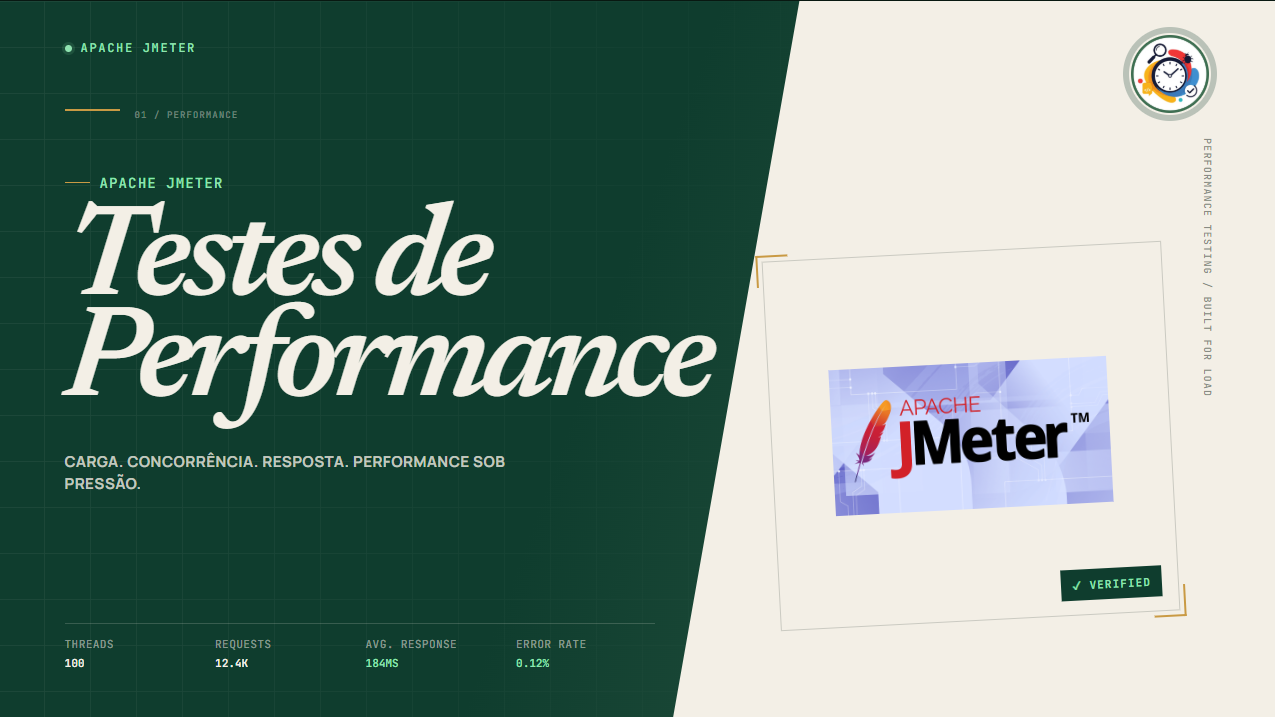
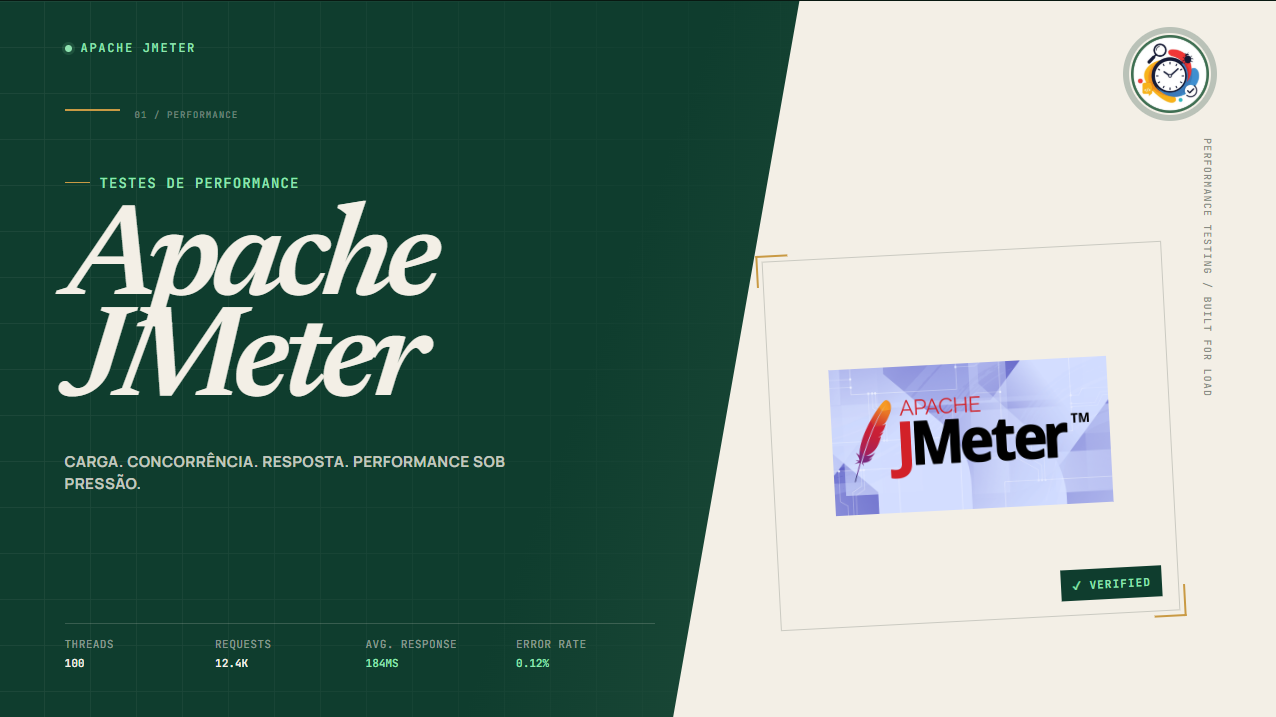
fix: Jmeter

diff --git a/Thumbnail/jmeter/index.html b/Thumbnail/jmeter/index.html
@@ -670,15 +670,14 @@
 
       <div class="eyebrow">
 
-        Apache JMeter
+        Testes de Performance
 
       </div>
 
 
       <h1>
 
-        Testes de<br>
-        Performance
+        Apache JMeter
 
       </h1>
 
